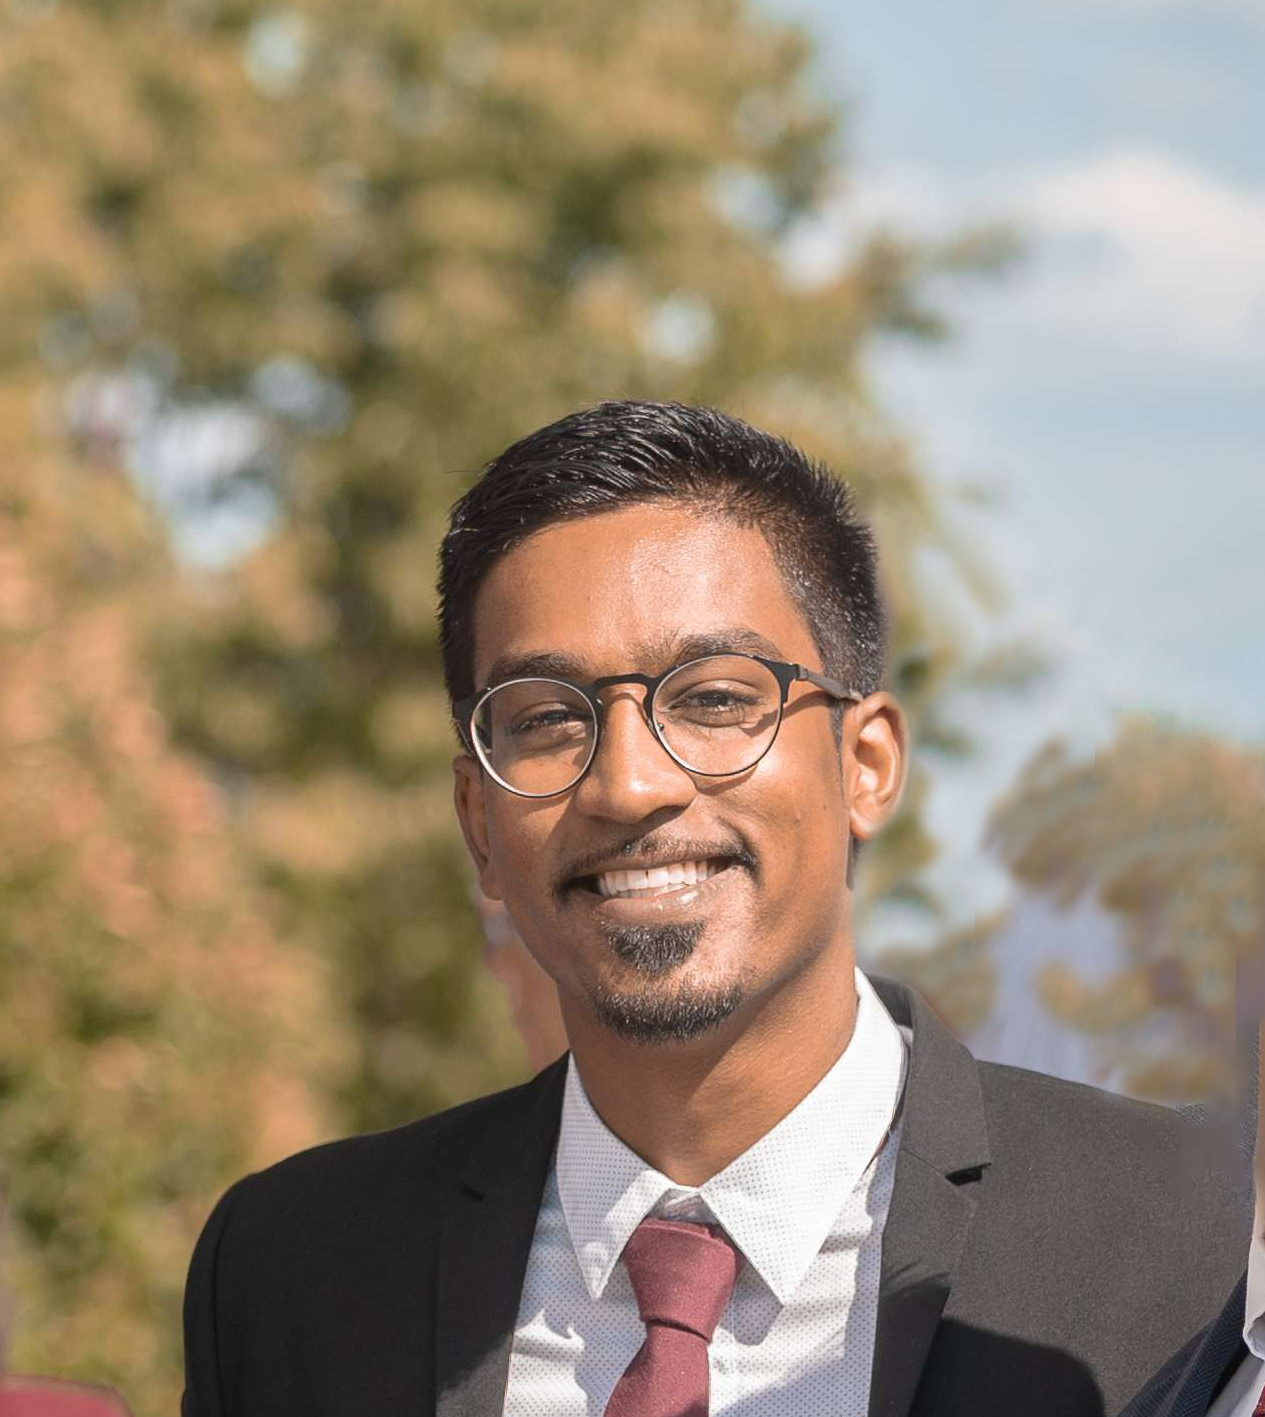
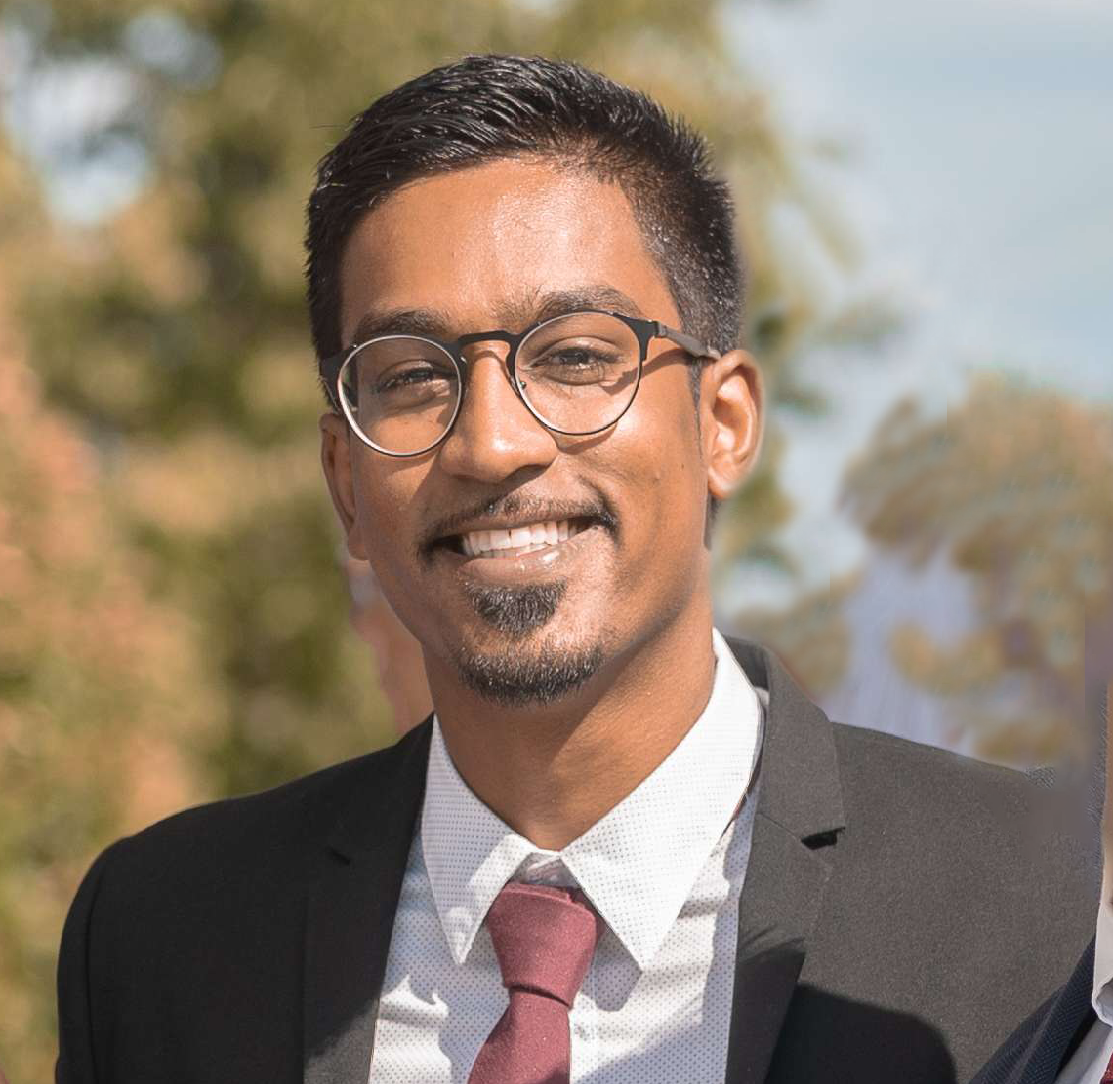
Added resume section

diff --git a/portfolio/src/App.tsx b/portfolio/src/App.tsx
@@ -3,14 +3,14 @@ import { Button } from "@/components/ui/button"
 import { Card, CardContent } from "@/components/ui/card"
 import { Input } from "@/components/ui/input"
 import { Textarea } from "@/components/ui/textarea"
-import { GithubIcon, LinkedinIcon, MailIcon, FileIcon, ExternalLinkIcon } from 'lucide-react'
+import { GithubIcon, LinkedinIcon, MailIcon, FileIcon, ExternalLinkIcon, DownloadIcon, ZoomInIcon, ZoomOutIcon } from 'lucide-react'
 
 const Header = ({ scrollTo }: { scrollTo: (id: string) => void }) => (
   <header className="sticky top-0 z-50 w-full border-b border-border bg-background/95 backdrop-blur supports-[backdrop-filter]:bg-background/60">
     <div className="container mx-auto px-4 sm:px-6 lg:px-8">
       <div className="flex h-14 items-center justify-center">
         <nav className="flex items-center space-x-4 lg:space-x-6">
-          {['About', 'Projects', 'Contact'].map((item) => (
+          {['About', 'Projects', 'Resume', 'Contact'].map((item) => (
             <button
               key={item}
               onClick={() => scrollTo(item.toLowerCase())}
@@ -72,7 +72,7 @@ const About = () =>
       <Card className="w-full max-w-3xl mx-auto bg-card">
         <CardContent className="flex flex-col md:flex-row items-center gap-6 p-6">
           <div className="w-48 h-48 rounded-full overflow-hidden flex-shrink-0">
-            <img src="/p.png" alt="Milton Joseph" className="w-full h-full object-cover" />
+            <img src="/p_optimized.png" alt="Milton Joseph" className="w-full h-full object-cover" />
           </div>
           <div className="space-y-4">
             <h2 className="text-2xl font-bold text-foreground">Milton Joseph</h2>
@@ -81,10 +81,14 @@ const About = () =>
               innovative solutions to complex problems. I actively seek out new technologies
               and strive to expand my knowledge, continuously learning and adapting to the ever-evolving tech landscape.
             </p>
-            <Button variant="outline" className="flex items-center gap-2 bg-primary text-primary-foreground hover:bg-primary/90">
-              <FileIcon className="h-4 w-4" />
-              Download Resume
-            </Button>
+            <div className="flex items-center space-x-4">
+              <a href="https://github.com/miltderp" target="_blank" rel="noopener noreferrer" aria-label="GitHub">
+                <GithubIcon className="h-6 w-6 text-muted-foreground hover:text-foreground" />
+              </a>
+              <a href="https://www.linkedin.com/in/miltonjoseph/" target="_blank" rel="noopener noreferrer" aria-label="LinkedIn">
+                <LinkedinIcon className="h-6 w-6 text-muted-foreground hover:text-foreground" />
+              </a>
+            </div>
           </div>
         </CardContent>
       </Card>
@@ -104,7 +108,6 @@ const About = () =>
   )
 }
 
-
 const Projects = () =>
 {
   const projects = [
@@ -112,7 +115,7 @@ const Projects = () =>
       title: 'TheFastSupper',
       description: 'A MERN stack application that provides food recommendations based on user feedback',
       image: '/burger.png',
-      url: 'https://thefastsupper.example.com'
+      url: 'https://github.com/Miltderp/TheFastSupper'
     },
     {
       title: 'Advanced Analytical Identification of Turbine Components',
@@ -144,6 +147,58 @@ const Projects = () =>
           </Card>
         </a>
       ))}
+    </div>
+  )
+}
+
+const Resume = () =>
+{
+  const [zoom, setZoom] = useState(100)
+
+  const handleZoomIn = () =>
+  {
+    setZoom(prevZoom => Math.min(prevZoom + 10, 200))
+  }
+
+  const handleZoomOut = () =>
+  {
+    setZoom(prevZoom => Math.max(prevZoom - 10, 50))
+  }
+
+  return (
+    <div className="space-y-8">
+      <div className="flex justify-between items-center">
+        <h3 className="text-2xl font-bold text-foreground">My Resume</h3>
+        <div className="flex items-center gap-4">
+          <Button onClick={handleZoomOut} variant="outline" className="p-2">
+            <ZoomOutIcon className="h-4 w-4" />
+          </Button>
+          <span className="text-sm font-medium">{zoom}%</span>
+          <Button onClick={handleZoomIn} variant="outline" className="p-2">
+            <ZoomInIcon className="h-4 w-4" />
+          </Button>
+          <Button variant="outline" className="flex items-center gap-2 bg-primary text-primary-foreground hover:bg-primary/90">
+            <DownloadIcon className="h-4 w-4" />
+            <a href="/resume.pdf" download="Milton_Joseph_Resume.pdf">
+              Download PDF
+            </a>
+          </Button>
+        </div>
+      </div>
+      <Card className="w-full bg-card overflow-hidden">
+        <CardContent className="p-6">
+          <div className="w-full overflow-auto">
+            <div style={{ width: `${zoom}%`, transition: 'width 0.3s ease-in-out' }}>
+              <img
+                src="/Resume.jpg"
+                alt="Milton Joseph's Resume"
+                className="w-full h-auto"
+                style={{ maxWidth: 'none' }}
+              />
+            </div>
+          </div>
+        </CardContent>
+      </Card>
     </div>
   )
 }
@@ -204,6 +259,7 @@ export default function App()
   const [activeSection, setActiveSection] = useState('')
   const aboutRef = useRef<HTMLElement>(null)
   const projectsRef = useRef<HTMLElement>(null)
+  const resumeRef = useRef<HTMLElement>(null)
   const contactRef = useRef<HTMLElement>(null)
 
   const scrollTo = (id: string) =>
@@ -211,6 +267,7 @@ export default function App()
     const refMap: { [key: string]: React.RefObject<HTMLElement> } = {
       about: aboutRef,
       projects: projectsRef,
+      resume: resumeRef,
       contact: contactRef
     }
 
@@ -237,7 +294,7 @@ export default function App()
       { threshold: 0.5 }
     )
 
-    const sections = [aboutRef, projectsRef, contactRef]
+    const sections = [aboutRef, projectsRef, resumeRef, contactRef]
     sections.forEach((section) =>
     {
       if (section.current)
@@ -264,6 +321,12 @@ export default function App()
             <div className="w-full">
               <h2 className="text-3xl font-bold mb-10 text-center text-foreground">My Projects</h2>
               <Projects />
+            </div>
+          </section>
+          <section id="resume" ref={resumeRef} className="py-20 min-h-screen flex items-center">
+            <div className="w-full">
+              <h2 className="text-3xl font-bold mb-10 text-center text-foreground">Resume</h2>
+              <Resume />
             </div>
           </section>
           <section id="contact" ref={contactRef} className="py-20 min-h-screen flex items-center">
